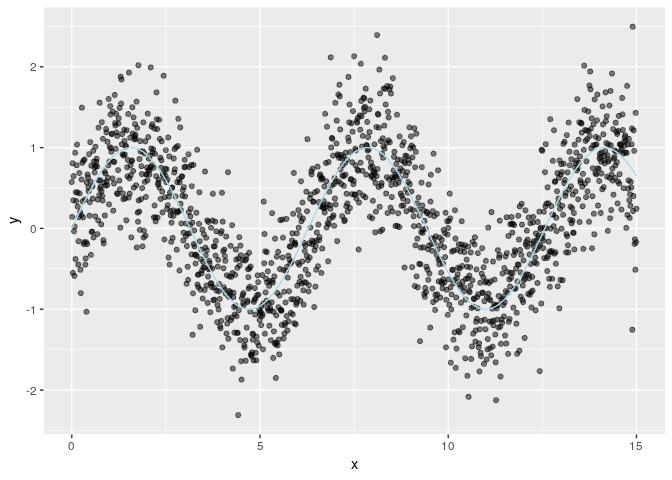
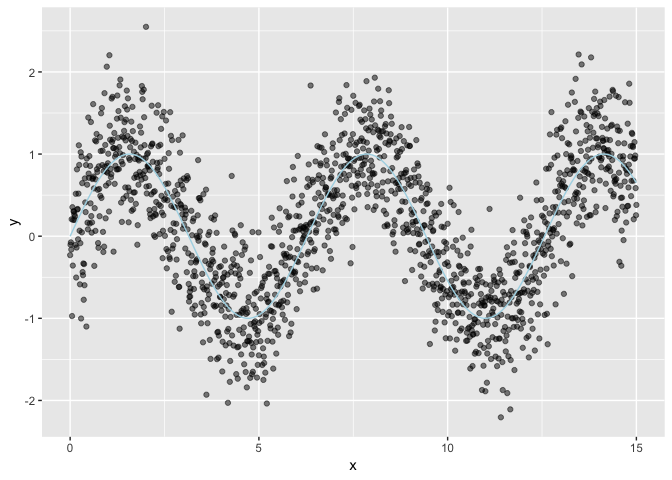
demonstrate segment fitter

diff --git a/extras/SegFitter.md b/extras/SegFitter.md
@@ -31,7 +31,10 @@ encode_x_as_lambdas <- function(x, minx, maxx, xs) {
 }
 
 #' Fit a piecewise linear function at cut-points
-fit_segments <- function(x, y) {
+fit_segments <- function(x, y, w = NULL) {
+  if(is.null(w)) {
+    w = numeric(length(x))
+  }
   meany = mean(y)
   missing_pred = meany
   na_posns = is.na(x)
@@ -40,6 +43,7 @@ fit_segments <- function(x, y) {
   }
   x <- x[!na_posns]
   y <- y[!na_posns]
+  w <- w[!na_posns]
   n <- length(x)
   minx <- min(x)
   maxx <- max(x)
@@ -70,12 +74,41 @@ pred_segs <- function(model, x) {
   preds[is.na(x)] <- model$missing_pred
   preds
 }
+
+
+#' Solve as piecewise linear problem.
+#'
+#' Return a vector of length y that is a function of x
+#' (differs at must where x differs) obeying the same order
+#' constraints as x.  This vector is picked as close to
+#' y (by square-distance) as possible.
+#'
+#' @param varName character, name of variable
+#' @param x numeric, factor, or character input (not empty, no NAs). 
+#' @param y numeric or castable to such (same length as x no NAs), output to match
+#' @param w numeric positive, same length as x (weights, can be NULL)
+#' @return isotonicly adjusted y (non-decreasing)
+#'
+#'
+#' @examples
+#' 
+#' solveNonDecreasing('v', 1:3, c(1,2,1))
+#' # [1] 1.0 1.5 1.5
+#' 
+solve_piecewise <- function(varName, x, y, w=NULL) {
+  model <- fit_segments(x, y, w=w)
+  pred_segs(model, x)
+}
+
+customCoders = list('c.PiecewiseV.num' = solve_piecewise,
+                    'n.PiecewiseV.num' = solve_piecewise)
 ```
 
 ``` r
 d <- data.frame(x = seq(0, 15, by = 0.01))
 d$y_ideal <- sin(d$x)
 d$y <- d$y_ideal + 0.5*rnorm(nrow(d))
+d$is_train <- runif(nrow(d))>=0.2
 
 ggplot(data=d) +
   geom_point(aes(x = x, y = y), alpha=0.5) + 
@@ -85,12 +118,70 @@ ggplot(data=d) +
 ![](SegFitter_files/figure-markdown_github/example-1.png)
 
 ``` r
+cfe <- vtreat::mkCrossFrameNExperiment(d[d$is_train, , drop=FALSE], 
+                                        'x', 'y',
+                                        customCoders = customCoders,
+                                        verbose = FALSE)
+cfe$treatments
+```
+
+    ##        varName varMoves         rsq           sig needsSplit
+    ## 1 x_PiecewiseV     TRUE 0.655368743 2.136152e-279       TRUE
+    ## 2      x_clean     TRUE 0.000658704  3.743851e-01      FALSE
+    ##   extraModelDegrees origName       code
+    ## 1              1200        x PiecewiseV
+    ## 2                 0        x      clean
+
+``` r
+prepared <- vtreat::prepare(cfe$treatments, d)
+d$x_PiecewiseV <- prepared$x_PiecewiseV
+
 model <- fit_segments(d$x, d$y)
 d$pred <- pred_segs(model, d$x)
 ggplot(data=d) +
  # geom_point(aes(x = x, y = y)) + 
   geom_line(aes(x = x, y = y_ideal), color = "lightblue") + 
-  geom_line(aes(x = x, y = pred))
+  geom_line(aes(x = x, y = x_PiecewiseV))
 ```
 
 ![](SegFitter_files/figure-markdown_github/example-2.png)
+
+``` r
+WVPlots::ScatterHist(d[d$is_train, , drop=FALSE], 
+                     "x_PiecewiseV", "y",
+                     "x_PiecewiseV versus observed y on train",
+                     smoothmethod = "identity",
+                     estimate_sig = TRUE)
+```
+
+![](SegFitter_files/figure-markdown_github/example-3.png)
+
+``` r
+WVPlots::ScatterHist(d[d$is_train, , drop=FALSE], 
+                     "x_PiecewiseV", "y_ideal",
+                     "x_PiecewiseV versus ideal y on train",
+                     smoothmethod = "identity",
+                     estimate_sig = TRUE)
+```
+
+![](SegFitter_files/figure-markdown_github/example-4.png)
+
+``` r
+WVPlots::ScatterHist(d[!d$is_train, , drop=FALSE], 
+                     "x_PiecewiseV", "y",
+                     "x_PiecewiseV versus observed y on test",
+                     smoothmethod = "identity",
+                     estimate_sig = TRUE)
+```
+
+![](SegFitter_files/figure-markdown_github/example-5.png)
+
+``` r
+WVPlots::ScatterHist(d[!d$is_train, , drop=FALSE], 
+                     "x_PiecewiseV", "y_ideal",
+                     "x_PiecewiseV versus ideal y on test",
+                     smoothmethod = "identity",
+                     estimate_sig = TRUE)
+```
+
+![](SegFitter_files/figure-markdown_github/example-6.png)
